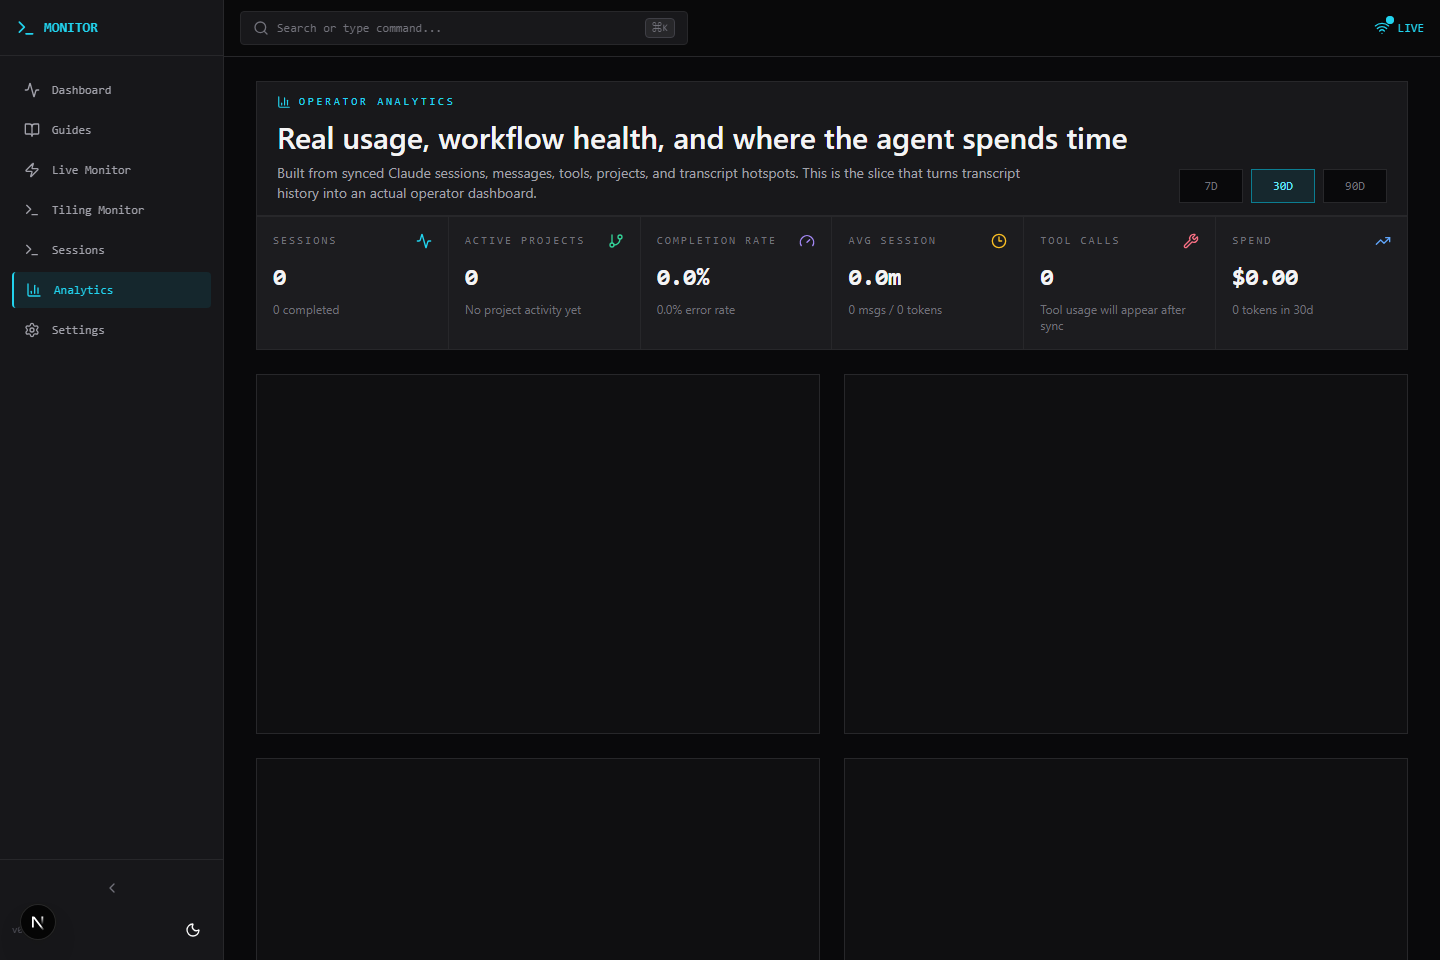
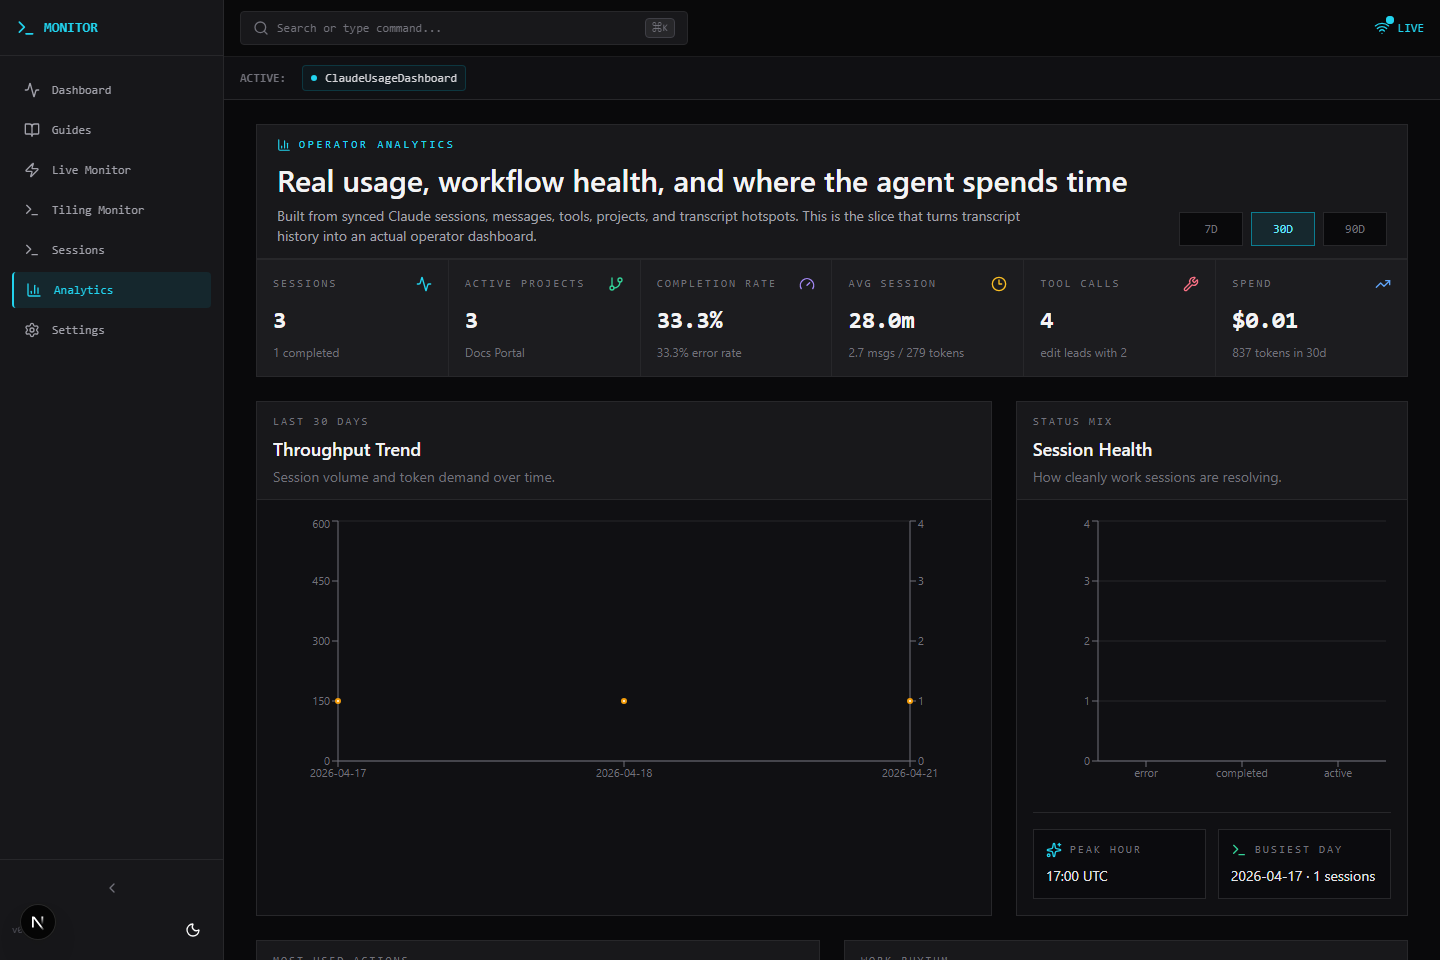
Harden analytics screenshot capture

diff --git a/tests/e2e/screenshots.spec.ts b/tests/e2e/screenshots.spec.ts
@@ -30,6 +30,17 @@ test.describe('product screenshots', () => {
         name: 'Real usage, workflow health, and where the agent spends time',
       })
     ).toBeVisible();
+    await expect(
+      page.getByRole('table').getByText('ClaudeUsageDashboard', { exact: true })
+    ).toBeVisible();
+    await expect(page.getByText('.github/workflows')).toBeVisible();
+    await expect(
+      page
+        .locator('section')
+        .filter({ has: page.getByRole('heading', { name: 'Tool Mix' }) })
+        .getByText('edit')
+        .first()
+    ).toBeVisible();
     await page.screenshot({
       path: path.join(screenshotDir, 'analytics-overview.png'),
       fullPage: true,

diff --git a/scripts/run-screenshot-capture.ts b/scripts/run-screenshot-capture.ts
@@ -3,6 +3,7 @@ import { spawnSync } from 'node:child_process';
 const env = {
   ...process.env,
   CAPTURE_PRODUCT_SCREENSHOTS: '1',
+  CI: '1',
 };
 
 const result =
